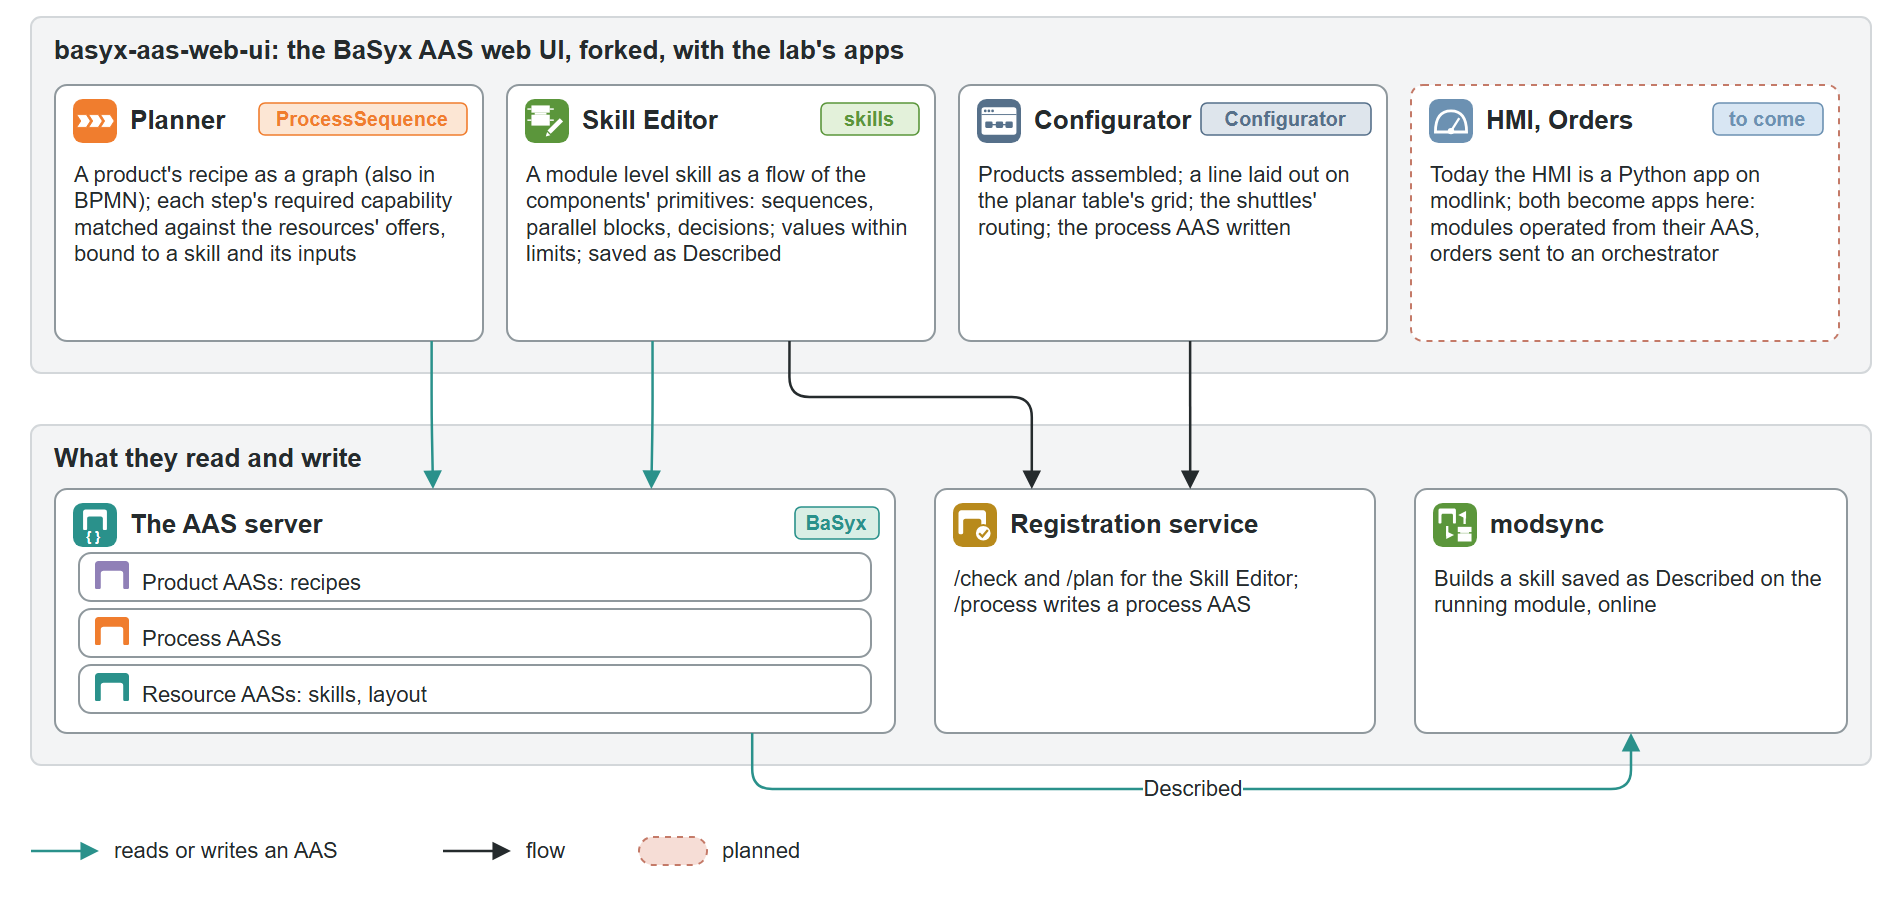
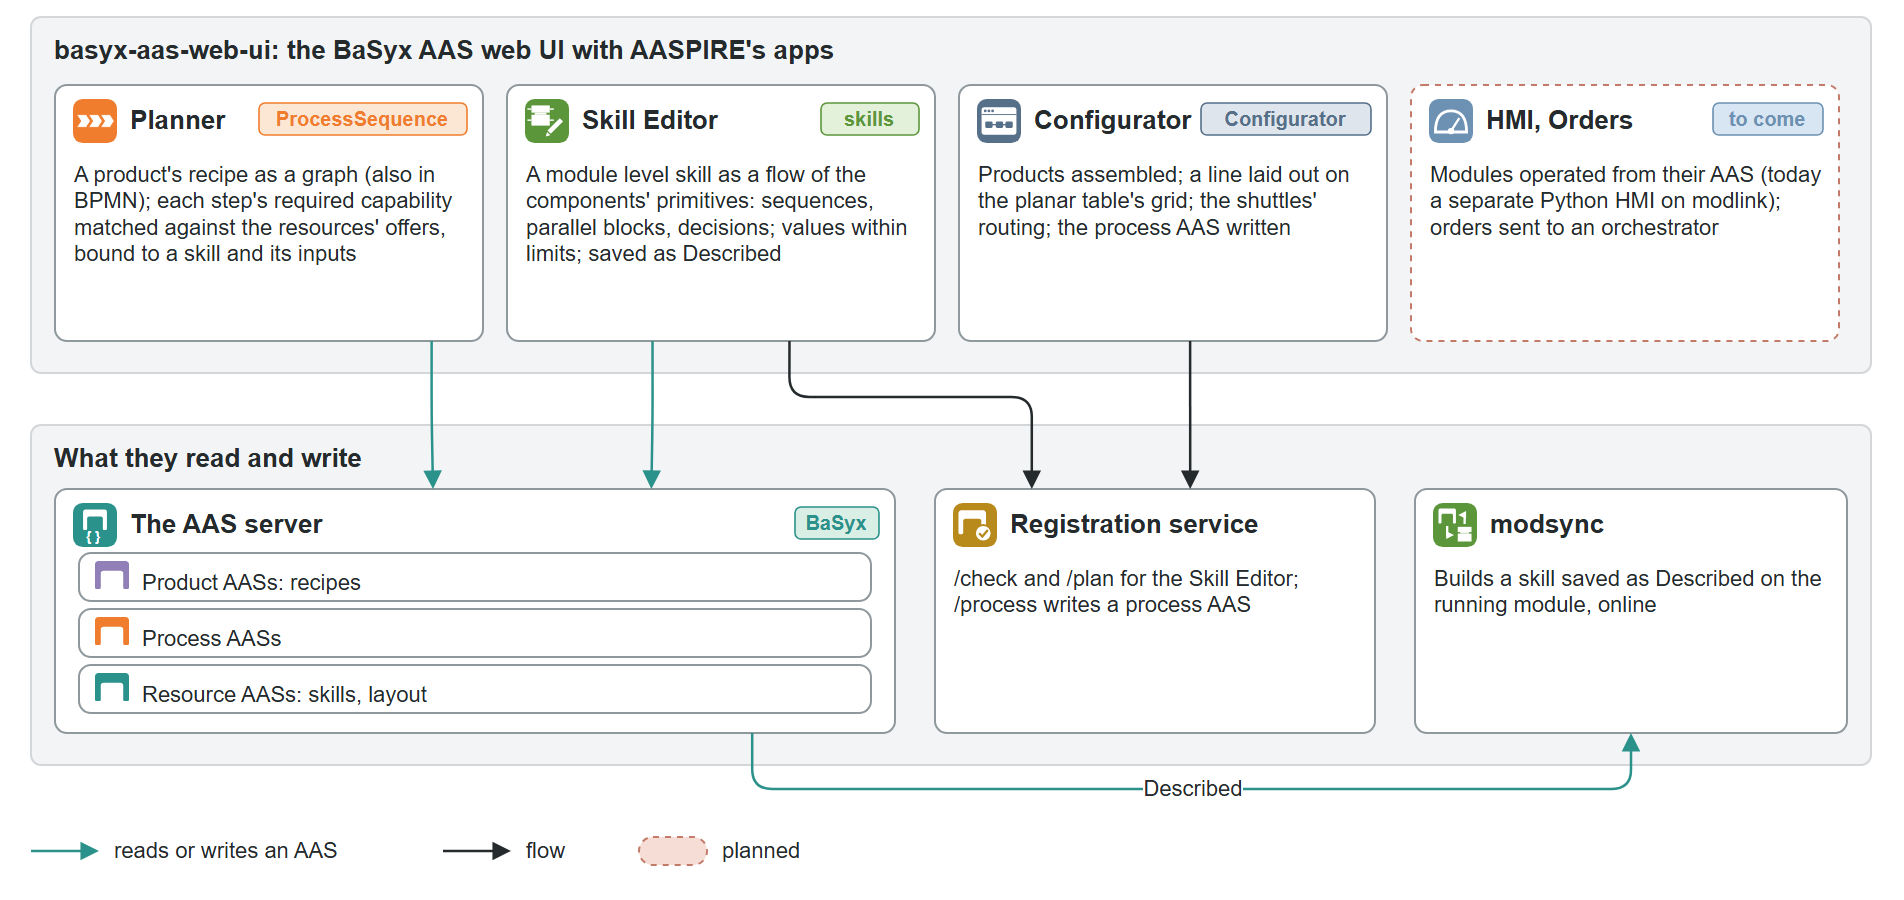
Web UI page and figure: AASPIRE's apps, not a fork's branch

Changed region(s): [[0.7437, 0.1867, 0.9606, 0.3111], [0.2789, 0.0311, 0.4648, 0.0933]]

diff --git a/docs/interfaces/web-ui.md b/docs/interfaces/web-ui.md
@@ -1,9 +1,10 @@
 # Web UI
 
-<span class="pillar interfaces">Interfaces</span> `basyx-aas-web-ui`: the Eclipse BaSyx AAS web UI,
-forked, with the lab's apps beside BaSyx's own views of the AASs: the Planner, the Skill Editor and the
-Configurator, and to come the HMI and Orders. Vue and TypeScript. Submodule `basyx-aas-web-ui/` (the
-user's fork, branch `feat/process-sequence-pharma`).
+<span class="pillar interfaces">Interfaces</span> `basyx-aas-web-ui`: the Eclipse BaSyx AAS web UI
+with AASPIRE's apps beside BaSyx's own views of the AASs: the Planner, the Skill Editor and the
+Configurator, and to come the HMI and Orders. Every app works on the AASs on the server, so whatever you
+do in an app is visible to every other tool. Vue and TypeScript. Repository
+[basyx-aas-web-ui](https://github.com/AAU-AASPIRE/basyx-aas-web-ui).
 
 <figure markdown="span">
   [![The four apps on top, and what they read and write below: the AAS server with the product, process
@@ -14,11 +15,11 @@ user's fork, branch `feat/process-sequence-pharma`).
 
 ## The apps
 
-| App | Does | Where in the fork |
+| App | Does | Where in the code |
 | --- | --- | --- |
 | **Planner** | A product's recipe (its Production Sequence) as a graph, also in BPMN; each step's required capability matched against the resources' offered capabilities; a step bound to a resource, a skill and its inputs. Saving has the registration service write the process AAS | `src/pages/modules/ProcessSequence`, `ProcessSequenceBpmn` |
 | **Skill Editor** | A module's composite skill as a flow of its components' primitives: sequences, parallel blocks, decisions; values within the primitives' limits; a new skill from an existing one. It asks the registration service to check a skill and to plan one, and saves it to the Skills submodel as `Described` | `ProcessSequence/skills` |
-| **Configurator** | Products assembled from their parts; a line laid out on the planar table's grid (read from the table's AAS); the shuttles' routing kept in the line's AAS; a process AAS written for a product on the line | `src/pages/modules/Configurator` |
+| **Configurator** | Products assembled from their parts; a line laid out on its transport's grid (read from the transport's AAS, e.g. a planar table's); the shuttles' routing kept in the line's AAS; a process AAS written for a product on the line | `src/pages/modules/Configurator` |
 | **HMI** (to come) | The modules operated from their AAS, as the Python HMI does today with [modlink](../integration/modlink.md) | |
 | **Orders** (to come) | An order sent to either orchestrator | |
 
@@ -27,13 +28,13 @@ before they are written, and only what changed is saved.
 
 ## Running it
 
-The lab's AAS stack starts the web UI as an image, on `http://localhost:3000`, beside the AAS server
+The server stack starts the web UI as an image, on `http://localhost:3000`, beside the AAS server
 ([Deployment](../deployment/deploy.md)). The Planner and the Skill Editor need the registration
 service's address (`modreg serve`, port 8090), set in the Process Sequence editor.
 
-To work on the apps themselves, the fork's own README and AGENTS.md describe the tooling (Node 24,
-pnpm) and the checks (eslint, vitest, vue-tsc).
+To work on the apps themselves, the repository's own README and AGENTS.md describe the tooling
+(Node 24, pnpm) and the checks (eslint, vitest, vue-tsc).
 
-Read further: [skill-authoring.md](../reference/skill-authoring.md)
-(the Skill Editor and the Planner, as decided), [locations-and-layout.md](../reference/locations-and-layout.md)
-(the planar table's layout).
+Read further: [authoring skills](../reference/skill-authoring.md)
+(the Skill Editor and the Planner), [locations and the table's layout](../reference/locations-and-layout.md)
+(where things are on a line).
